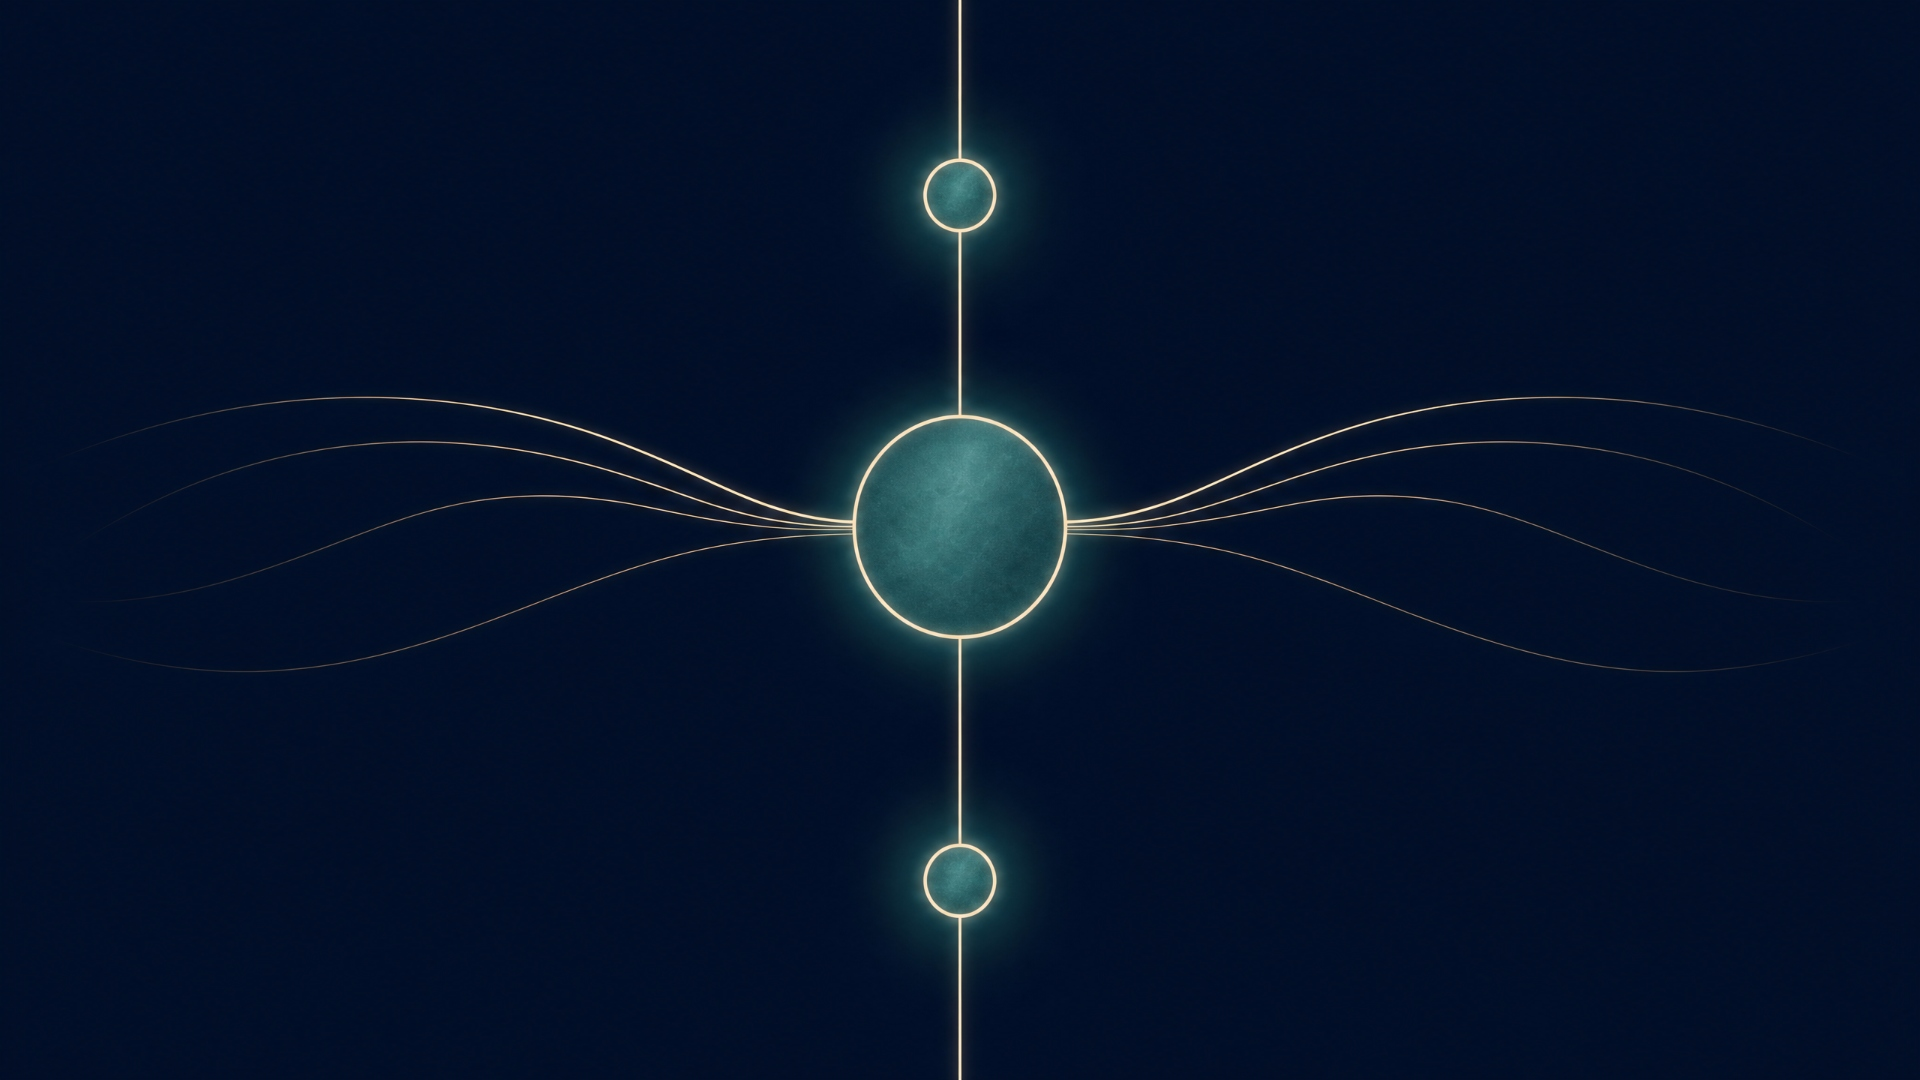
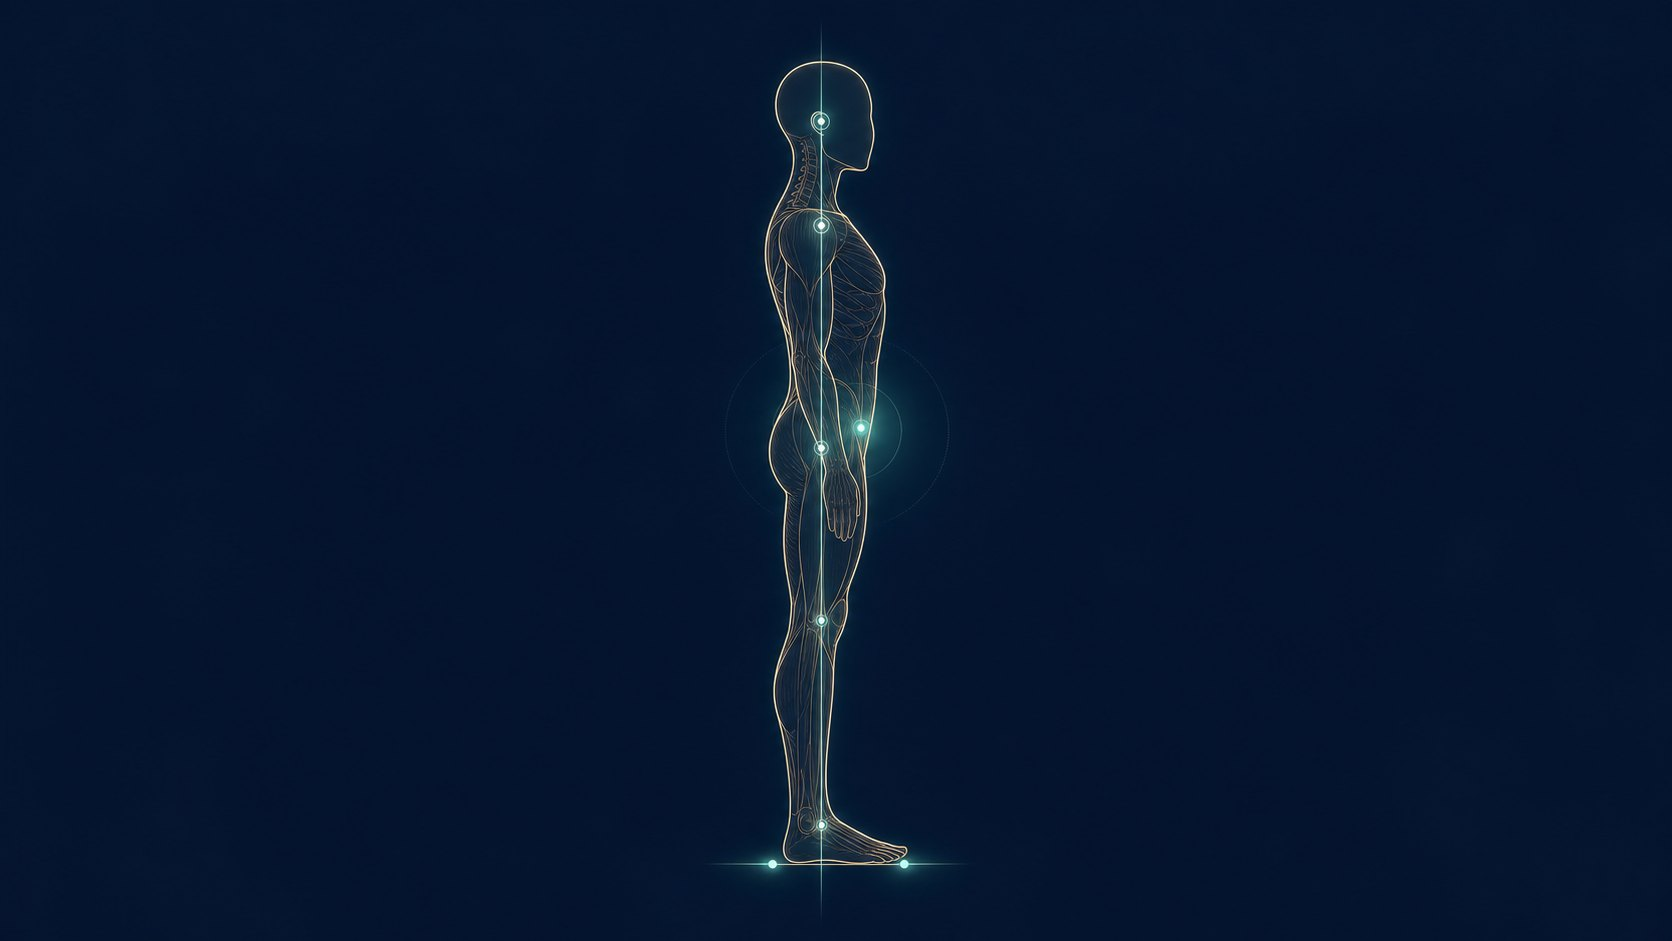
Text-only hero; move train photo to Solution; anatomy method image
- Hero: remove the tall 2:3 photo so it no longer dominates the viewport
  (especially on mobile). Centered text hero with a subtle teal glow.
- Reframe ('a calmer way to stand'): move the train photo here, replacing
  the man-stable-stance photo.
- Method: replace the abstract illustration with a generated anatomy-based
  posture diagram (standing figure with a teal alignment plumb line).
- Remove now-unused solution-photo asset.

Changed region(s): [[0.2488, 0.0308, 0.7153, 1.0], [0.7153, 0.3698, 0.7464, 0.4006]]

diff --git a/src/index.css b/src/index.css
@@ -379,16 +379,32 @@ li {
 /* ---------- Hero ---------- */
 .hero {
   position: relative;
-  padding-top: clamp(var(--space-10), 6vw, var(--space-20));
+  padding-top: clamp(var(--space-12), 8vw, var(--space-24));
   padding-bottom: clamp(var(--space-16), 8vw, var(--space-32));
   overflow: hidden;
 }
 
-.hero__grid {
-  display: grid;
-  grid-template-columns: 1.05fr 0.95fr;
-  gap: clamp(var(--space-8), 4vw, var(--space-16));
+.hero__glow {
+  position: absolute;
+  inset: -20% 0 auto 0;
+  height: 90%;
+  pointer-events: none;
+  background:
+    radial-gradient(60% 70% at 50% 0%, color-mix(in srgb, var(--accent) 18%, transparent), transparent 70%);
+  z-index: 0;
+}
+
+.hero__inner {
+  position: relative;
+  z-index: 1;
+  display: flex;
+  flex-direction: column;
   align-items: center;
+  text-align: center;
+}
+
+.hero__copy {
+  max-width: 46ch;
 }
 
 .hero__title {
@@ -401,11 +417,13 @@ li {
   font-size: var(--text-lg);
   color: var(--text-soft);
   max-width: 42ch;
+  margin-inline: auto;
 }
 
 .hero__cta {
   display: flex;
   flex-wrap: wrap;
+  justify-content: center;
   gap: var(--space-3);
   margin-top: var(--space-8);
 }
@@ -426,6 +444,7 @@ li {
   color: var(--muted);
   display: flex;
   align-items: center;
+  justify-content: center;
   gap: 0.5em;
 }
 
@@ -436,12 +455,8 @@ li {
 }
 
 @media (max-width: 920px) {
-  .hero__grid {
-    grid-template-columns: 1fr;
-  }
-  .hero__media {
-    order: -1;
-    max-width: 520px;
+  .hero__copy {
+    max-width: none;
   }
 }
 

diff --git a/src/sections/Hero.jsx b/src/sections/Hero.jsx
@@ -2,12 +2,12 @@ import React from 'react'
 import Button from '../components/Button'
 import Reveal from '../components/Reveal'
 import { Shield } from '../components/icons'
-import heroPhoto from '../assets/hero-photo.jpg'
 
 export default function Hero() {
   return (
     <section className="hero" id="top">
-      <div className="shell hero__grid">
+      <div className="hero__glow" aria-hidden="true" />
+      <div className="shell hero__inner">
         <Reveal className="hero__copy">
           <span className="eyebrow">Posture · Balance · Stability</span>
           <h1 className="hero__title">Stay steady when life moves.</h1>
@@ -25,20 +25,6 @@ export default function Hero() {
             <Shield aria-hidden="true" />
             Built for everyday commuters, not gym athletes.
           </p>
-        </Reveal>
-
-        {/* Hero image: faceless commuter standing calmly inside a modern train,
-            holding a rail lightly, motion-blurred city lights outside. */}
-        <Reveal className="hero__media">
-          <img
-            src={heroPhoto}
-            alt="Faceless commuter standing calmly inside a modern train at night, holding a rail lightly, city lights blurred through the window"
-            className="media-img"
-            width="1080"
-            height="1620"
-            loading="eager"
-            decoding="async"
-          />
         </Reveal>
       </div>
     </section>

diff --git a/src/sections/Reframe.jsx b/src/sections/Reframe.jsx
@@ -1,6 +1,6 @@
 import React from 'react'
 import Reveal from '../components/Reveal'
-import solutionPhoto from '../assets/solution-photo.jpg'
+import heroPhoto from '../assets/hero-photo.jpg'
 
 export default function Reframe() {
   return (
@@ -20,12 +20,12 @@ export default function Reframe() {
         </Reveal>
 
         <div className="split" style={{ alignItems: 'center', marginTop: 'var(--space-10)' }}>
-          {/* Solution image: faceless commuter from torso to feet with stable
-              posture, soft knees and a grounded stance inside a modern train. */}
+          {/* Solution image: faceless commuter standing calmly inside a
+              modern train, holding a rail lightly, city lights outside. */}
           <Reveal>
             <img
-              src={solutionPhoto}
-              alt="Faceless commuter from torso to feet with stable posture, soft knees and a grounded stance inside a modern train"
+              src={heroPhoto}
+              alt="Faceless commuter standing calmly inside a modern train at night, holding a rail lightly, city lights blurred through the window"
               className="media-img"
               width="1080"
               height="1620"
